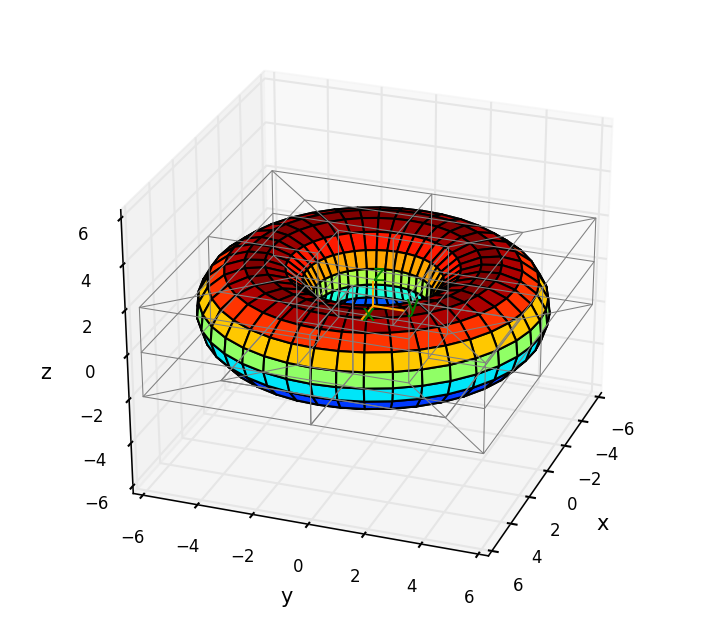
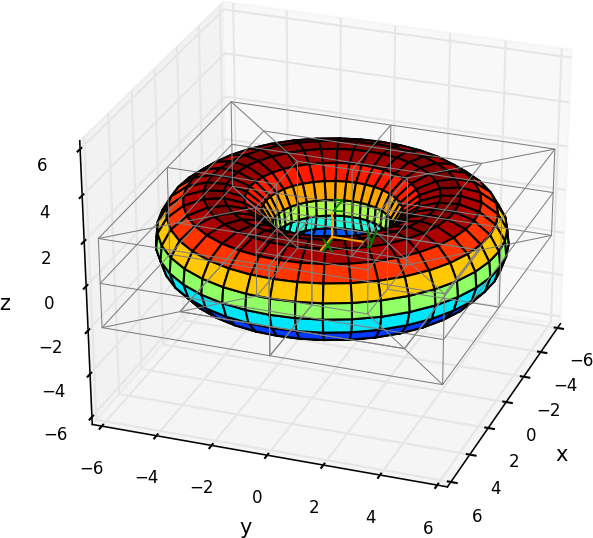
Update documentation

diff --git a/README.md b/README.md
@@ -41,6 +41,10 @@ see what's available and how to call functions and methods.
 
 [Check out examples here](https://github.com/cpmech/gosl/blob/master/examples/README.md)
 
+<div id="container">
+<p><img src="examples/figs/gm_nurbs03.png" width="400"></p>
+Construction of NURBS surfaces with the `gm` package.
+</div>
 
 <div id="container">
 <p><img src="examples/figs/rnd_normalDistribution.png" width="400"></p>
